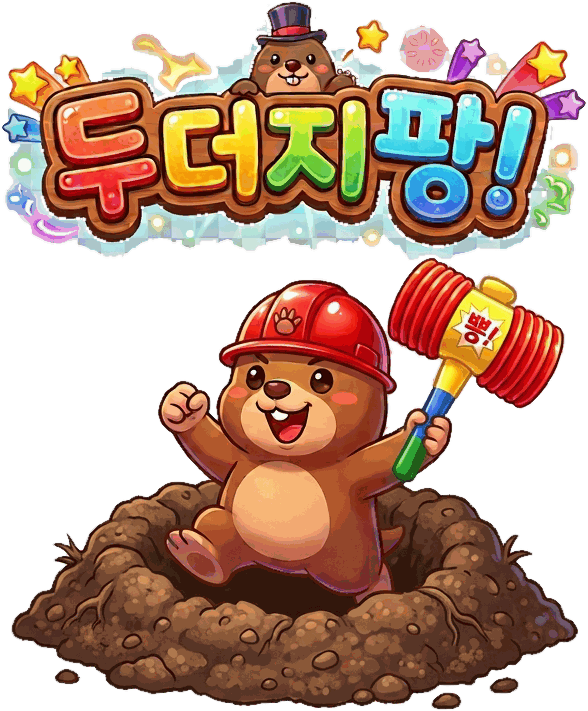
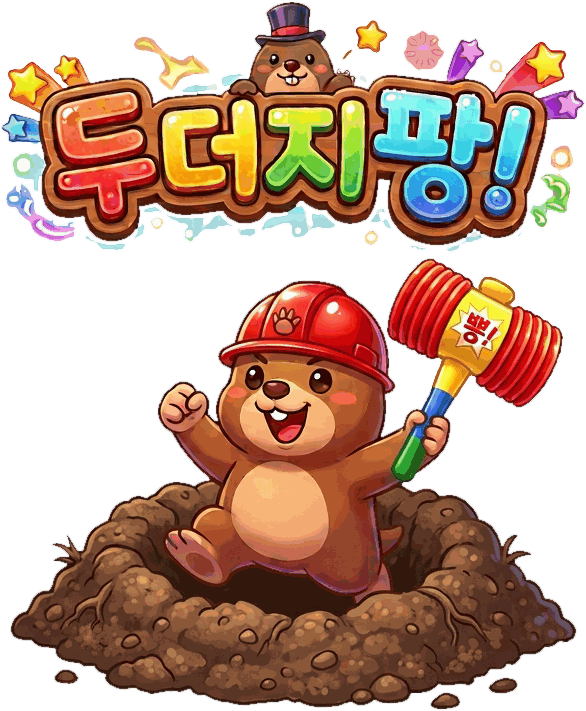
fix(mole): 더보기 메뉴 중 라운드 넘어가도 화면 안 튐 + 로고 흰 노이즈 제거
- openMore(): 플레이 중 열면 게임 일시정지(pausedByMenu), closeMore() 가 재개
- startRound(): fresh 아닐 때는 더보기 메뉴를 안 닫는다
- roundComplete(): 자동 다음 라운드를 메뉴 닫힐 때까지 대기
- keyout-loading.py: 로고 주변에 칠해진 옅은 흰 헤이즈를 투명 경계 flood 로 제거
  (진한 만화 외곽선/채도 높은 색에서 멈춤). loading.png + 아이콘 재생성
- 스모크: 메뉴 열어둔 채 라운드 종료 → 메뉴 유지 + 닫을 때 진행 확인
- sw v45

Claude-Session: https://claude.ai/code/session_01G4r7JhYRZRkXEYJXQp8Pk4

diff --git a/mole/js/game.js b/mole/js/game.js
@@ -199,6 +199,11 @@
 
   // 더보기 메뉴 열기/닫기.
   function openMore(sub) {
+    // 플레이 중에 열면 게임을 멈춘다 (닫을 때 자동 재개) — 메뉴 뒤에서 라운드가 굴러가지 않게.
+    if (state && !state.ended && !state.introActive && !state.paused) {
+      state.paused = true;
+      state.pausedByMenu = true;
+    }
     document.getElementById('more-menu').hidden = false;
     if (moreMenu) moreMenu.refresh();
     if (sub) {
@@ -213,6 +218,12 @@
   function closeMore() {
     screenNav.reset();
     document.getElementById('more-menu').hidden = true;
+    // 열 때 멈춘 게임이면 재개.
+    if (state && state.pausedByMenu) {
+      state.paused = false;
+      state.pausedByMenu = false;
+      lastTime = performance.now();
+    }
     // 진행 중이던 게임이 있으면 그대로, 없으면 대화 화면.
     if (!state) showStartScreen();
   }
@@ -405,8 +416,12 @@
     document.getElementById('gameover-overlay').hidden = true;
     document.getElementById('round-done-overlay').hidden = true;
     document.getElementById('game-screen').classList.remove('is-start');
-    if (screenNav) screenNav.reset();
-    document.getElementById('more-menu').hidden = true;
+    // 새 게임 시작(fresh)일 때만 더보기 메뉴를 닫는다. 자동 다음 라운드는 메뉴를 건드리지 않음
+    // (플레이 중 메뉴 열어둔 채 라운드가 넘어가도 화면이 안 튀게).
+    if (opts && opts.fresh) {
+      if (screenNav) screenNav.reset();
+      document.getElementById('more-menu').hidden = true;
+    }
     syncBgm(true); // 시작 버튼(사용자 제스처) 이후 — 설정에서 켜져 있으면 재생
     MG.HitFx.warmup(); // 오디오 컨텍스트 + 타격음 파일 프리로드 (카운트다운 동안)
 
@@ -662,11 +677,14 @@
       I18N.t('mole.cumulative', { n: run.combo.score.toLocaleString() });
     document.getElementById('round-done-overlay').hidden = false;
 
-    setTimeout(() => {
+    const advance = () => {
       if (myGen !== sessionGen) return; // 그 사이 나가버림
+      // 더보기 메뉴가 열려 있으면 닫힐 때까지 대기 (메뉴 뒤에서 라운드가 넘어가지 않게).
+      if (!document.getElementById('more-menu').hidden) { setTimeout(advance, 300); return; }
       document.getElementById('round-done-overlay').hidden = true;
       startRound(finishedRound + 1); // fresh 아님 → 누적 유지
-    }, 1400);
+    };
+    setTimeout(advance, 1400);
   }
 
   // 목숨 소진(라운드 도중) — 지금까지 친 점수까지 반영하고 최종 결과.

diff --git a/mole/scripts/verify-mole-smoke.js b/mole/scripts/verify-mole-smoke.js
@@ -313,6 +313,22 @@ const FACE_PNG_B64 =
     assert.strictEqual(await page.evaluate(() => document.querySelector('#hud-ticker .tk-lv').textContent), '라운드 2', 'auto-advanced to round 2');
     assert.ok((await score()) >= scoreBeforeEnd, 'cumulative score carried');
 
+    // ---- 8b) 더보기 메뉴 열어둔 채 라운드가 끝나도 메뉴가 유지되고 화면이 안 튄다 ----
+    await page.click('#btn-back-to-hub');
+    await new Promise((r) => setTimeout(r, 100));
+    assert.strictEqual(await page.evaluate(() => document.getElementById('more-menu').hidden), false, 'more-menu open mid-play');
+    await page.evaluate(() => window.__debugEndRound());
+    await new Promise((r) => setTimeout(r, 2000)); // 자동 진행 대기시간(1.4s) 넘김
+    assert.strictEqual(await page.evaluate(() => document.getElementById('more-menu').hidden), false,
+      'more-menu stays open even though the round ended (no forced switch to the game screen)');
+    assert.strictEqual(await page.evaluate(() => document.querySelector('#hud-ticker .tk-lv').textContent), '라운드 2',
+      'next round is held until the menu closes');
+    await page.evaluate(() => document.querySelector('#more-menu [data-mm-close]').click());
+    await new Promise((r) => setTimeout(r, 500));
+    await waitIntroDone();
+    assert.strictEqual(await page.evaluate(() => document.querySelector('#hud-ticker .tk-lv').textContent), '라운드 3',
+      'round advances once the menu is closed');
+
     // ---- 9) 목숨 소진 → 결과 + mole.best.easy + 코인 ----
     await page.evaluate(() => { localStorage.setItem('mole.coins', '0'); localStorage.removeItem('mole.best.easy'); });
     await page.evaluate(() => window.__debugStartGame('easy'));

diff --git a/mole/sw.js b/mole/sw.js
@@ -3,7 +3,7 @@
 // → 파일이 바뀌면 CACHE 버전을 안 올려도 "다음 실행"에 자동 반영된다 (이전엔 캐시-우선이라
 //   sw.js 자체가 안 바뀌면 style.css/이미지 변경이 폰에 영영 안 걸렸음).
 // SHELL 목록 자체가 바뀔 때만 CACHE 를 올린다.
-const CACHE = 'mole-game-v44';
+const CACHE = 'mole-game-v45';
 
 // bgm-boss-battle.mp3(6.8MB)는 SHELL 에 안 넣는다 — BGM 은 기본 꺼짐이라 켜는 사람만 받으면 된다.
 // vendor/face_mesh/*(약 10MB, 얼굴인식)도 SHELL 제외 — 사람두더지 메이커 처음 열 때만 필요.

diff --git a/mole/index.html b/mole/index.html
@@ -79,7 +79,7 @@
       <div id="pause-veil" class="mole-board-layer" aria-hidden="true">일시정지</div>
 
       <!-- 시작 UI = 카톡풍 대화 (폰 화면 = 보드 안) -->
-      <div id="build-tag" aria-hidden="true">v44</div>
+      <div id="build-tag" aria-hidden="true">v45</div>
       <div id="board-start" class="board-panel board-start">
         <!-- 최고 스코어: 위에서 툭 내려오는 문자 알림 -->
         <div id="start-best" class="chat-sms" aria-hidden="true">

diff --git a/mole/scripts/keyout-loading.py b/mole/scripts/keyout-loading.py
@@ -1,6 +1,9 @@
-"""로딩화면 소스(assets/src/loading-source.png)의 체커보드 배경 제거 → assets/loading.png.
-1) 테두리 flood fill 로 바깥 체커 제거
-2) 남은 갇힌 체커(로고 글로우 사이 등) 를 좁은 중성회색 밴드로 전역 제거
+"""로딩화면 소스(assets/src/loading-source.png) 배경 제거 → assets/loading.png.
+체커보드 + 로고 주변에 칠해진 옅은 흰색 헤이즈(외곽 흰 노이즈처럼 보임)를 함께 제거한다.
+1) 테두리 flood 로 바깥 체커 제거
+2) 투명 경계에서 flood — 밝고 채도 낮은 픽셀을 먹어들어간다 (별/글자/두더지의 진한 만화
+   외곽선 luma<=70 에서 멈추므로 색이 진한 내부는 안전)
+3) 남은 갇힌 중성회색 전역 제거
 실행: python scripts/keyout-loading.py
 """
 import os
@@ -17,15 +20,15 @@ W, H = im.size
 px = im.load()
 
 
-def neutral(r, g, b):
-    return max(r, g, b) - min(r, g, b) <= 14
+def luma(r, g, b):
+    return 0.299 * r + 0.587 * g + 0.114 * b
 
 
-def is_bg_flood(r, g, b):
-    return 175 <= min(r, g, b) and max(r, g, b) <= 245 and neutral(r, g, b)
+def chroma(r, g, b):
+    return max(r, g, b) - min(r, g, b)
 
 
-# 1) 테두리 flood
+# ---- 1) 테두리 flood: 바깥 체커 ----
 seen = bytearray(W * H)
 dq = deque()
 for x in range(W):
@@ -41,26 +44,53 @@ while dq:
         continue
     seen[i] = 1
     r, g, b, a = px[x, y]
-    if not is_bg_flood(r, g, b):
+    if not (150 <= min(r, g, b) and max(r, g, b) <= 248 and chroma(r, g, b) <= 16):
         continue
     px[x, y] = (r, g, b, 0)
     dq.append((x + 1, y)); dq.append((x - 1, y)); dq.append((x, y + 1)); dq.append((x, y - 1))
 
-# 2) 갇힌 체커 전역 제거 — 좁은 밴드(체커는 ~192/229, 아트의 흰 하이라이트는 245+)
+# ---- 2) 투명 경계에서 옅은 헤이즈 먹어들어가기 ----
+# 이미 투명한 픽셀 전부를 시드로. 밝고(>=160) 저채도(<=40) 픽셀을 제거,
+# 진한 만화 외곽선(luma<=72)·채도 높은 색은 통과 못 함 → 글자/별/두더지 내부 안전.
+edge = deque()
+seen2 = bytearray(W * H)
+for y in range(H):
+    for x in range(W):
+        if px[x, y][3] == 0:
+            edge.append((x, y))
+            seen2[y * W + x] = 1
+while edge:
+    x, y = edge.popleft()
+    for dx, dy in ((1, 0), (-1, 0), (0, 1), (0, -1)):
+        nx, ny = x + dx, y + dy
+        if nx < 0 or nx >= W or ny < 0 or ny >= H:
+            continue
+        j = ny * W + nx
+        if seen2[j]:
+            continue
+        r, g, b, a = px[nx, ny]
+        if a == 0:
+            seen2[j] = 1
+            edge.append((nx, ny))
+            continue
+        if luma(r, g, b) >= 160 and chroma(r, g, b) <= 40:
+            px[nx, ny] = (r, g, b, 0)
+            seen2[j] = 1
+            edge.append((nx, ny))
+
+# ---- 3) 갇힌 중성회색 전역 제거 ----
 for y in range(H):
     for x in range(W):
         r, g, b, a = px[x, y]
         if a == 0:
             continue
-        if 185 <= min(r, g, b) and max(r, g, b) <= 238 and (max(r, g, b) - min(r, g, b)) <= 8:
+        if 185 <= min(r, g, b) and max(r, g, b) <= 238 and chroma(r, g, b) <= 8:
             px[x, y] = (r, g, b, 0)
 
-# 프린지 정리
+# ---- 프린지 정리 + 축소/양자화 ----
 alpha = im.split()[3].filter(ImageFilter.MinFilter(3)).filter(ImageFilter.GaussianBlur(0.6))
 im.putalpha(alpha)
 im = im.crop(im.getbbox())
-
-# 스플래시용 축소 + 양자화
 if im.width > 620:
     im = im.resize((620, round(im.height * 620 / im.width)), Image.LANCZOS)
 im.quantize(colors=256, method=Image.FASTOCTREE, dither=Image.FLOYDSTEINBERG).save(OUT, optimize=True)
